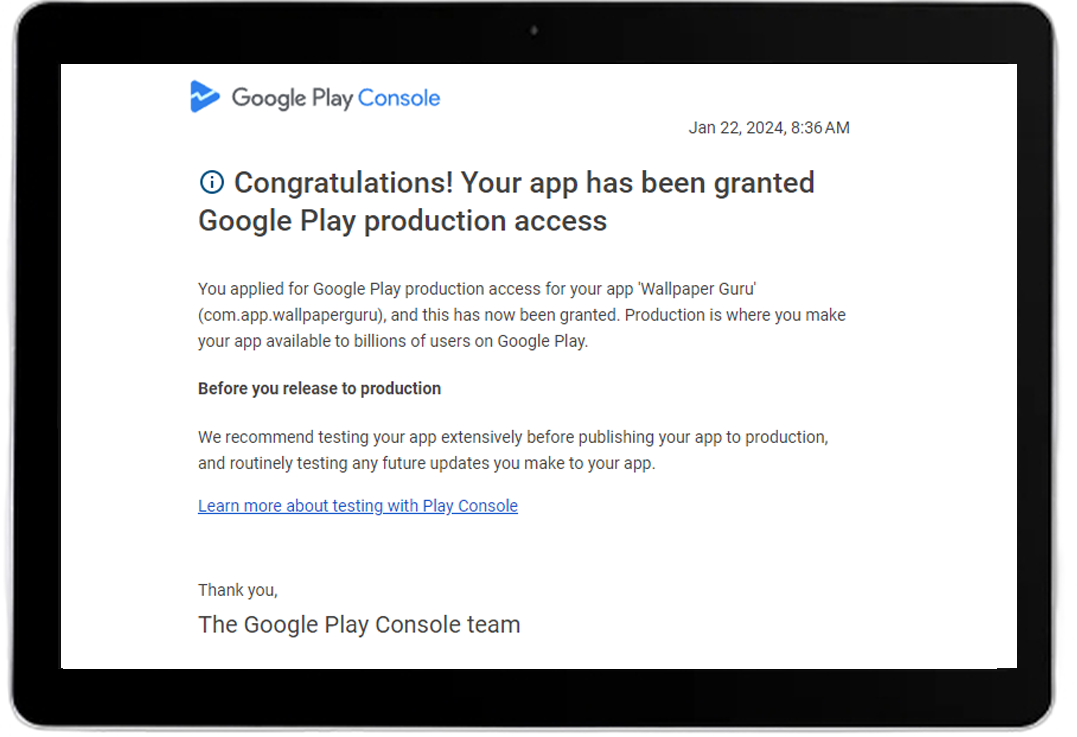
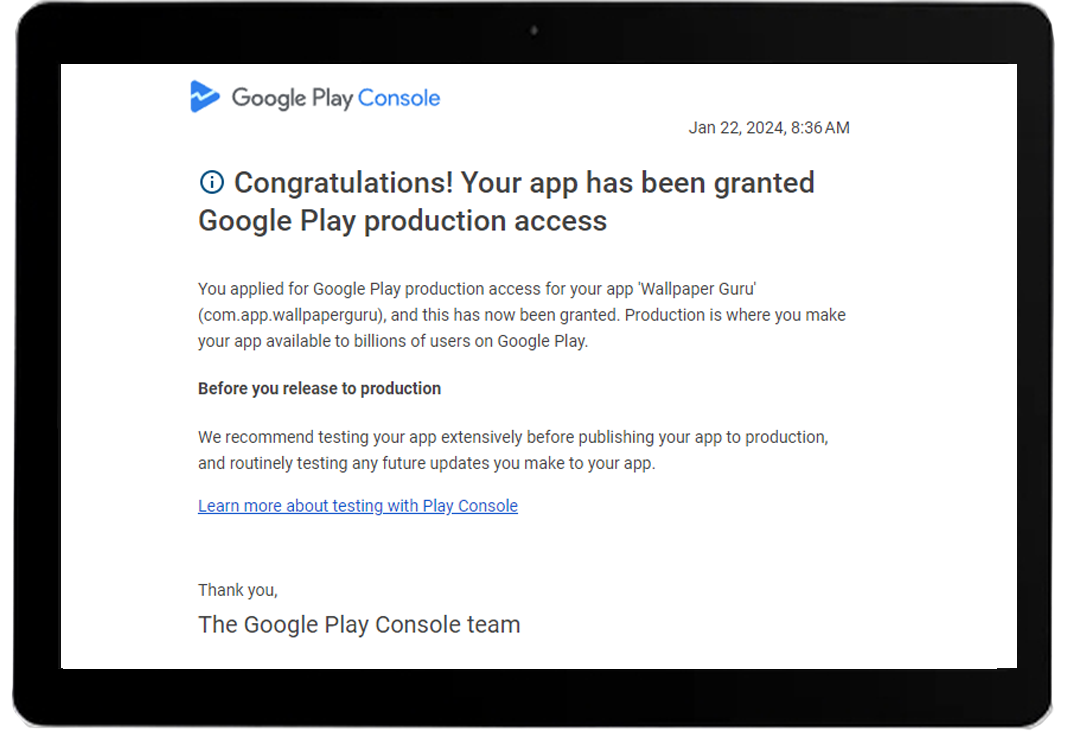
image diesplay issues

diff --git a/src/components/pages/home.tsx b/src/components/pages/home.tsx
@@ -235,7 +235,7 @@ export default function HomePage() {
       {/* ═══════════════════════════════════════════════════════════════════
           HERO SECTION
       ═══════════════════════════════════════════════════════════════════ */}
-      <section className="relative overflow-hidden hero-y">
+      <section className="relative overflow-x-hidden hero-y">
         {/* Background image with overlay */}
         <div className="absolute inset-0 -z-20">
           <div className="absolute inset-0 bg-gradient-to-b from-background via-background/95 to-background" />
@@ -332,26 +332,30 @@ export default function HomePage() {
               </AnimatedSection>
             </div>
 
-            {/* Right: Hero illustration */}
-            <AnimatedSection delay={300} direction="fade-right" className="flex-1 hidden lg:flex justify-center">
-              <div className="relative">
+            {/* Hero illustration — visible on all screen sizes */}
+            <AnimatedSection
+              delay={300}
+              direction="fade-right"
+              className="flex w-full flex-1 justify-center mt-8 sm:mt-10 lg:mt-0"
+            >
+              <div className="relative mx-auto w-full max-w-[280px] sm:max-w-xs md:max-w-sm lg:max-w-md xl:max-w-lg px-2 sm:px-0">
                 <div className="absolute -inset-4 bg-blue-500/5 rounded-3xl blur-2xl" />
                 <img
                   src="/images/illustrations/app-testing.png"
                   alt="App Testing Illustration"
-                  className="relative w-full max-w-md xl:max-w-lg animate-float-slow drop-shadow-2xl"
+                  className="relative mx-auto w-full h-auto animate-float-slow drop-shadow-2xl"
                 />
                 {/* Floating badges around illustration */}
-                <div className="absolute -top-4 -right-4 bg-card border border-border/60 rounded-xl px-3 py-2 shadow-lg animate-float">
-                  <div className="flex items-center gap-2">
-                    <CheckCircle className="h-4 w-4 text-green-400" />
-                    <span className="text-xs font-semibold text-foreground">Approved</span>
+                <div className="absolute -top-2 end-0 sm:-top-4 sm:-end-4 bg-card border border-border/60 rounded-xl px-2.5 py-1.5 sm:px-3 sm:py-2 shadow-lg animate-float">
+                  <div className="flex items-center gap-1.5 sm:gap-2">
+                    <CheckCircle className="h-3.5 w-3.5 sm:h-4 sm:w-4 text-green-400" />
+                    <span className="text-[10px] sm:text-xs font-semibold text-foreground">Approved</span>
                   </div>
                 </div>
-                <div className="absolute -bottom-2 -left-4 bg-card border border-border/60 rounded-xl px-3 py-2 shadow-lg animate-float-delay">
-                  <div className="flex items-center gap-2">
-                    <Users className="h-4 w-4 text-blue-400" />
-                    <span className="text-xs font-semibold text-foreground">12 Testers</span>
+                <div className="absolute -bottom-1 start-0 sm:-bottom-2 sm:-start-4 bg-card border border-border/60 rounded-xl px-2.5 py-1.5 sm:px-3 sm:py-2 shadow-lg animate-float-delay">
+                  <div className="flex items-center gap-1.5 sm:gap-2">
+                    <Users className="h-3.5 w-3.5 sm:h-4 sm:w-4 text-blue-400" />
+                    <span className="text-[10px] sm:text-xs font-semibold text-foreground">12 Testers</span>
                   </div>
                 </div>
               </div>
@@ -469,12 +473,12 @@ export default function HomePage() {
           HOW IT WORKS
       ═══════════════════════════════════════════════════════════════════ */}
       <section className="relative py-16 sm:py-20 border-t border-border/40 overflow-hidden">
-        {/* Side illustration - visible on lg */}
-        <div className="absolute right-0 top-0 bottom-0 w-1/3 hidden xl:block pointer-events-none opacity-[0.06]">
+        {/* Side illustration — subtle on mobile, stronger on desktop */}
+        <div className="absolute inset-0 sm:inset-auto sm:right-0 sm:top-0 sm:bottom-0 sm:w-2/5 lg:w-1/3 pointer-events-none opacity-[0.05] sm:opacity-[0.06]">
           <img
             src="/images/illustrations/how-it-works.png"
             alt=""
-            className="w-full h-full object-contain object-center"
+            className="w-full h-full object-contain object-center sm:object-right"
             aria-hidden="true"
           />
         </div>
@@ -1143,8 +1147,8 @@ export default function HomePage() {
         <div className="mx-auto max-w-7xl px-4 sm:px-6 lg:px-8">
           <AnimatedSection direction="scale-in">
             <div className="relative rounded-2xl bg-gradient-to-br from-blue-500/10 via-blue-500/5 to-card border border-blue-500/20 p-8 sm:p-12 lg:p-16 text-center overflow-hidden">
-              {/* Background illustration - subtle */}
-              <div className="absolute right-0 bottom-0 w-1/3 h-full hidden lg:block pointer-events-none opacity-[0.08]">
+              {/* Background illustration — visible on mobile at lower opacity */}
+              <div className="absolute end-0 bottom-0 w-1/2 sm:w-2/5 lg:w-1/3 h-full pointer-events-none opacity-[0.06] sm:opacity-[0.07] lg:opacity-[0.08]">
                 <img
                   src="/images/illustrations/success-approved.png"
                   alt=""
